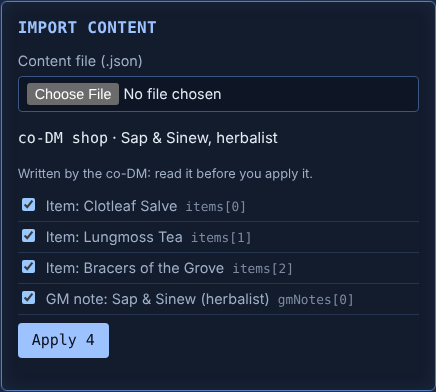
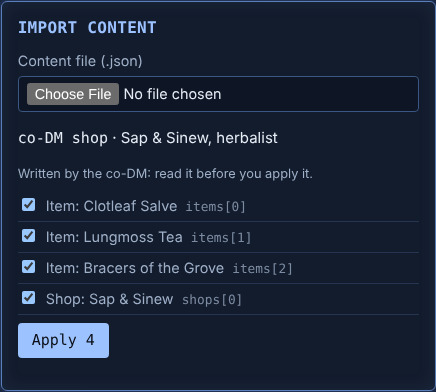
MC.3 (wip): generated shops use the shops section; GM-overrides rows for shop refusals; golden manifest re-pinned after formatting
Claude-Session: https://claude.ai/code/session_01GZrc4WvEJ6uBoPtyFFR6iX

Changed region(s): [[0.0894, 0.7347, 0.805, 0.7959]]

diff --git a/apps/server/src/ai/generate.ts b/apps/server/src/ai/generate.ts
@@ -24,9 +24,9 @@ export const GENERATE_LABELS: Readonly<Record<GenerateKind, string>> = {
   questHook: 'Quest hook',
 };
 
-/** Where each kind lands in the content format (MC.3 adds a real shop section). */
+/** Where each kind lands in the content format. */
 const KIND_GUIDE: Readonly<Record<GenerateKind, string>> = {
-  shop: 'A shop: one `gmNotes` entry titled with the shop name (keeper NPC, what it sells with prices in the campaign currency, an optional hook) and 2–5 `items` it sells.',
+  shop: 'A shop: one `shops` entry (name, place if known, keeper NPC, wares naming the items it sells with whole prices in the campaign currency, an optional hook) and the 2–5 `items` it sells, defined in the same file.',
   npc: 'An NPC: one `gmNotes` entry (name, look, wants, secret, how they talk) and, if players could Identify them, one `bestiary` entry with grade, level and tiers.',
   place:
     'A place: one `regions` entry (name, GM notes) and, if it holds something players could Identify, one `bestiary` entry without grade or level.',

diff --git a/apps/server/src/ai/fixtures/generate.ts b/apps/server/src/ai/fixtures/generate.ts
@@ -59,11 +59,16 @@ export const GENERATE_FIXTURES: readonly AiFixture[] = [
       'Here is the shop:\n```json\n' +
       file({
         title: 'Sap & Sinew, herbalist',
-        gmNotes: [
+        shops: [
           {
-            title: 'Sap & Sinew (herbalist)',
-            body: 'Keeper: Old Brenna, half-blind, smells of resin. Wares: Clotleaf Salve 15 Credits, Lungmoss Tea 8 Credits, Bracers of the Grove 120 Credits. Hook: she pays well for pale-hunter glands.',
-            tags: ['shop', 'herbalist'],
+            name: 'Sap & Sinew',
+            keeper: 'Old Brenna, half-blind, smells of resin.',
+            wares: [
+              { item: 'Clotleaf Salve', price: 15 },
+              { item: 'Lungmoss Tea', price: 8 },
+              { item: 'Bracers of the Grove', price: 120 },
+            ],
+            hook: 'She pays well for pale-hunter glands.',
           },
         ],
         items: [

diff --git a/apps/server/test/generate.test.ts b/apps/server/test/generate.test.ts
@@ -100,7 +100,7 @@ describe('co-DM generate on demand', () => {
   });
 
   const SECTIONS: Record<(typeof GENERATE_KINDS)[number], readonly string[]> = {
-    shop: ['item.define', 'note.create'],
+    shop: ['item.define', 'shop.define'],
     npc: ['entity.define', 'note.create'],
     place: ['region.define'],
     encounter: ['entity.define', 'note.create'],

diff --git a/docs/GM-OVERRIDES.md b/docs/GM-OVERRIDES.md
@@ -263,6 +263,11 @@ refusal is raised.
 | `unknown faction "…"` | packages/engine/src/events/reducer.ts:2112 | Fix the input or define the thing first |
 | `faction is already revealed` | packages/engine/src/events/reducer.ts:2134 | Nothing to do: players already see it (Trackers → "Hide from players" takes it back) |
 | `faction is already hidden` | packages/engine/src/events/reducer.ts:2134 | Nothing to do: players already cannot see it (Trackers → "Reveal to players") |
+| `shop "…" already exists` | packages/engine/src/events/reducer.ts | Fix the input or define the thing first |
+| `no region named "…"` | packages/engine/src/events/commands.ts | Fix the input or define the thing first (add the region, or leave the place empty) |
+| `… regions are named "…"` | packages/engine/src/events/commands.ts | Fix the input: use the region's id |
+| `wares[…]: no item named "…" in the library` | packages/engine/src/events/commands.ts | Fix the input or define the thing first (define the item, or put it in the same file) |
+| `wares[…]: … items are named "…": use the id` | packages/engine/src/events/commands.ts | Fix the input: use the item's id |
 | `entity "…" already exists` | packages/engine/src/events/reducer.ts:2140 | Fix the input or define the thing first |
 | `unknown entity "…"` | packages/engine/src/events/reducer.ts:2170 | Fix the input or define the thing first |
 | `"…" already knows …` | packages/engine/src/events/reducer.ts:2215 | Fix the input or define the thing first |
